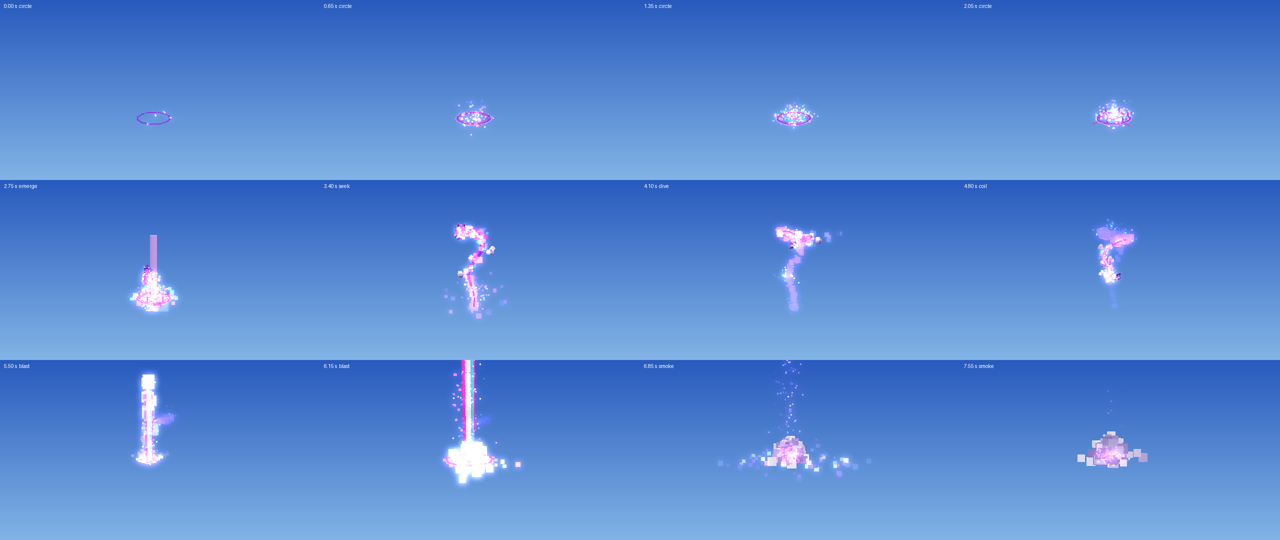
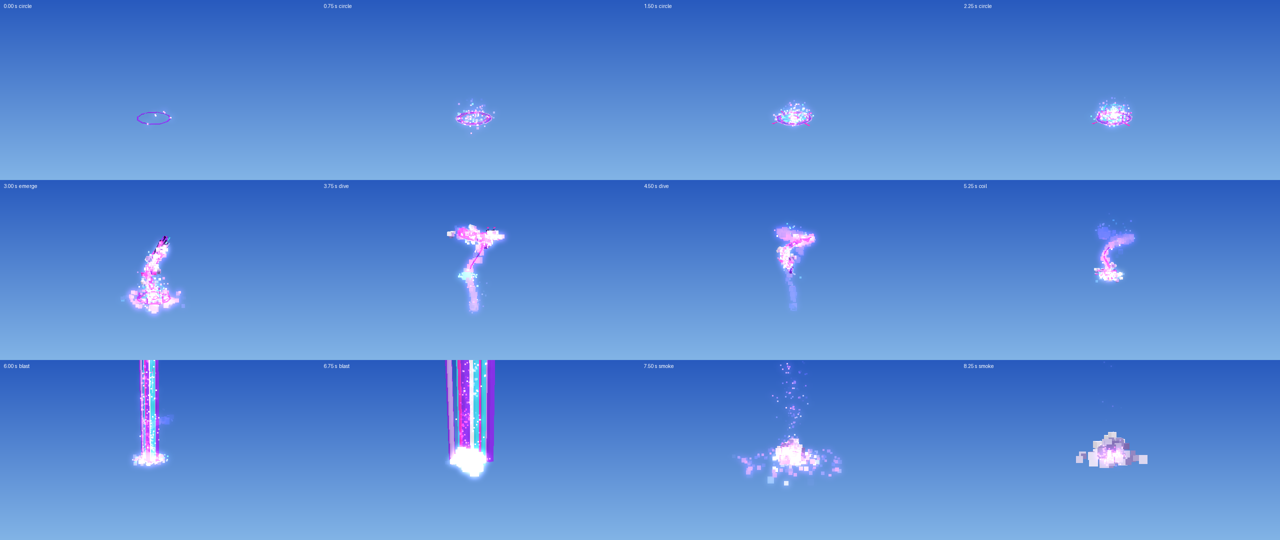
Second beam joins the fast beam, waits (hold 0.8 s), then both explode; same for the nuke

diff --git a/dragon_pulse/world_code.js b/dragon_pulse/world_code.js
@@ -10,6 +10,7 @@ var DP_CFG = {
   damage: 40,
   boom: 1,
   beam: 0.5,
+  hold: 0.8,
   radius: 10,
   knockback: 18,
   hurtCaster: false,
@@ -200,6 +201,14 @@ var DP_MESH = {
     ["M", 0.35, 1, 0.35, "magenta", 1.1, 0, 0],
     ["M", 0.35, 1, 0.35, "magenta", -1.1, 0, 0],
     ["M", 0.35, 1, 0.35, "cyan", 0, 1.1, 0, "m"],
+  ],
+
+  beam2: [
+    ["M", 0.5, 1, 0.5, "purple", 1.55, 1.55, 0, "m"],
+    ["M", 0.5, 1, 0.5, "purple", -1.55, 1.55, 0, "m"],
+    ["M", 0.28, 1, 0.28, "lilac", 2.3, 0, 0],
+    ["M", 0.28, 1, 0.28, "lilac", -2.3, 0, 0],
+    ["M", 0.28, 1, 0.28, "cyan", 0, 2.3, 0, "m"],
   ],
 
   beamTop: [
@@ -393,14 +402,19 @@ function dpAlong(c, name) {
   }
 }
 
-function dpBeam(c, base, k, tall, wide) {
-  var w = k * (wide || 1)
-  dpRows("beam").forEach((r, i) => {
-    dpPut(c, "beam_" + i, r, "", dpAt(base, DP_UP, r[5] * w, r[6] * w, tall / 2), null, k)
+function dpBars(c, name, tag, base, k, w, tall) {
+  dpRows(name).forEach((r, i) => {
+    dpPut(c, tag + i, r, "", dpAt(base, DP_UP, r[5] * w, r[6] * w, tall / 2), null, k)
     var box = dpBox(r, "", w)
     box.height = tall
-    if (c.m["beam_" + i]) api.updateMeshEntity(c.m["beam_" + i], "Box", box)
+    if (c.m[tag + i]) api.updateMeshEntity(c.m[tag + i], "Box", box)
   })
+}
+
+function dpBeam(c, base, k, tall, wide, two) {
+  var w = k * (wide || 1)
+  dpBars(c, "beam", "beam_", base, k, w, tall)
+  if (two) dpBars(c, "beam2", "beam_b", base, k, w, tall * two)
   var top = DP_MESH.beamTop
   dpPut(c, "beam_tip", top[0], "", dpAdd(base, [0, 1, 0], tall), null, k)
   dpPut(c, "beam_base", top[1], "", dpAdd(base, [0, 1, 0], 0.1), null, k)
@@ -412,6 +426,16 @@ function dpBeam(c, base, k, tall, wide) {
   if (c.t % 2 === 0) dpRingFx("shock", base, 1.6 * k * (wide || 1), 3, 0.7, 0.1, "magenta", "lilac", 6, c.t)
 }
 
+function dpHold(c, base, k, tall, h, hold, pitch) {
+  var p = h / hold
+  if (h === 0) dpSound("beam", base, pitch * 0.75)
+  if (h % 4 === 0) dpSound("pulse", base, pitch * (1 + p))
+  dpBeam(c, base, k, tall, 1 + p * 0.35 + Math.sin(h * 1.6) * 0.08, Math.min(1, (h + 1) / 4))
+  if (h % 2 === 0) dpRingFx("gather", dpAdd(base, [0, 1, 0], 0.6), 5 * k, 3, -1, 0.05, "cyan", "magenta", 6, h * 0.5)
+  dpFx("glow", dpAdd(base, [0, 1, 0], 1), 1, 0.5 * k, p > 0.6 ? "white" : "cyan")
+  if (h % 3 === 0) dpFx("gather", dpAdd(base, [0, 1, 0], tall), 6, 2 * k, "cyan", "white", [0, -1, 0])
+}
+
 function dpBurst(c, name, tag, at, k) {
   dpRows(name).forEach((r, i) => {
     var d = DP_DIAG[r[8]]
@@ -420,7 +444,7 @@ function dpBurst(c, name, tag, at, k) {
 }
 
 function dpBoom(c, base, k, tall, e, ring) {
-  dpBeam(c, base, k, tall, e < 4 ? 1 + e * 0.6 : Math.max(0.12, 2.8 - (e - 3) * 0.3))
+  dpBeam(c, base, k, tall, e < 4 ? 1 + e * 0.6 : Math.max(0.12, 2.8 - (e - 3) * 0.3), 1)
   dpShock(c, "beam_s", dpAdd(base, [0, 1, 0], 0.4), ring * (0.15 + e * 0.08), 0.5 * k, "magenta")
   dpFx("flash", base, 10, (2 + e * 0.5) * k)
   dpFx("impact", base, 8, 2 * k)
@@ -670,13 +694,15 @@ var DP_PHASE = [
     var goal = dpGoal(c)
     var b = DP_CFG.boom
     var wait = Math.max(1, Math.round(DP_CFG.beam * 20))
-    var e = c.t - wait
+    var hold = Math.max(1, Math.round(DP_CFG.hold * 20))
+    var e = c.t - wait - hold
     var base = [goal[0], goal[1] - 1, goal[2]]
     if (c.t === 0) {
       dpDrop(c, "")
       dpSound("beam", goal)
     }
-    if (e < 0) return dpBeam(c, base, b, (48 * b * (c.t + 1)) / wait)
+    if (c.t < wait) return dpBeam(c, base, b, (48 * b * (c.t + 1)) / wait)
+    if (e < 0) return dpHold(c, base, b, 48 * b, c.t - wait, hold, 1)
     if (e === 0) {
       dpSound("blast", goal)
       dpHurt(c, goal, DP_CFG.radius, DP_CFG.damage, DP_CFG.knockback)
@@ -716,7 +742,8 @@ var DP_PHASE = [
   function (c) {
     var wait = Math.max(1, Math.round(DP_CFG.beam * 24))
     var k = 3 * DP_CFG.boom
-    var e = c.t - wait
+    var hold = Math.max(1, Math.round(DP_CFG.hold * 24))
+    var e = c.t - wait - hold
     if (c.t === 0) {
       dpDrop(c, "")
       c.ground = dpAdd(c.at, [0, -1, 0], dpFree(c.at, [0, -1, 0], 60) - 1)
@@ -724,7 +751,8 @@ var DP_PHASE = [
       c.goal = c.ground
       dpSound("beam", c.ground, 0.7)
     }
-    if (e < 0) return dpBeam(c, c.ground, k, (c.tall * (c.t + 1)) / wait)
+    if (c.t < wait) return dpBeam(c, c.ground, k, (c.tall * (c.t + 1)) / wait)
+    if (e < 0) return dpHold(c, c.ground, k, c.tall, c.t - wait, hold, 0.7)
     if (e === 0) {
       dpSound("nuke", c.ground)
       dpHurt(c, c.ground, DP_CFG.nukeRadius, DP_CFG.nukeDamage, DP_CFG.nukeKnockback, true)

diff --git a/dragon_pulse/tools/render.py b/dragon_pulse/tools/render.py
@@ -127,7 +127,7 @@ strip.resize((W * 2, H * 3 // 2)).save(os.path.join(out, 'timeline.png'))
 # Six moments from close by. The last two are two dragons that met.
 tick_of = lambda frames, ph, i: [f['t'] for f in frames if f['ph'] == ph][i]
 shots = [(one, one_live, 0, -1, 9), (one, one_live, 1, 9, 14), (one, one_live, 3, -3, 26),
-         (one, one_live, 5, 13, 50), (two, two_live, 8, 16, 90), (two, two_live, 9, 16, 60)]
+         (one, one_live, 5, 22, 50), (two, two_live, 8, 34, 90), (two, two_live, 9, 16, 60)]
 sheet = Image.new('RGB', (W * 3, H * 2))
 for i, (frames, live, ph, at, back) in enumerate(shots):
     t = tick_of(frames, ph, at)

diff --git a/README.md b/README.md
@@ -133,9 +133,9 @@ The meshes sit over your own skin; they do not hide it.
 
 | File | Goes into | Characters | Limit |
 |---|---|---|---|
-| `world_code.js` | World Code | 35,361 | 512,000 |
-| `goodra.js` | World Code, below `world_code.js` | 10,215 | 512,000 together: 45,577 |
-| `skin.js` | World Code | 6,032 | 512,000, all three together: 51,610 |
+| `world_code.js` | World Code | 36,666 | 512,000 |
+| `goodra.js` | World Code, below `world_code.js` | 10,215 | 512,000 together: 46,882 |
+| `skin.js` | World Code | 6,032 | 512,000, all three together: 52,915 |
 | `code_block.js` | Code Block | 18 | 32,000 |
 | `studio/particles_only.code_block.js` | Code Block | 13,414 | 32,000 |
 
@@ -152,8 +152,9 @@ the table columns mean is written on this page instead.
 | dive | It weaves down onto the target | the same dragon, shimmer particles | 3.75–4.7 |
 | coil | It wraps round the target; two stars flash | two 4-part star meshes, sparks | 4.7–5.3 |
 | beam | The dragon turns into a beam that shoots 48 blocks straight up from the target | 10 meshes: a white core and four thin beams that grow, a ball on the tip, a disc at the foot, three collars travelling up; rising sparks | 5.35–5.85 |
-| blast | The beam is the explosion: it swells to almost three times as thick, a shock ring widens on the ground, then it thins out and is gone. The target is killed when it swells, others within 10 blocks are hurt and pushed | the same beam, a 10-piece ring, flashes, shock waves | 5.85–6.5 |
-| smoke | A little smoke round a glowing core | 12 smoke meshes, smoke and sparks | 6.5–8.3 |
+| second beam | A second beam rises around the first in a fifth of a second and waits: the two throb and slowly thicken while light is pulled in at the foot and down from the tip | 8 more meshes: four purple bars on the corners and four thin lilac and cyan bars outside the first beam; gathering glints, a glow that turns white | 5.85–6.65 |
+| blast | Both beams are the explosion: they swell to almost three times as thick, a shock ring widens on the ground, then it thins out and is gone. The target is killed when it swells, others within 10 blocks are hurt and pushed | the same beams, a 10-piece ring, flashes, shock waves | 6.65–7.3 |
+| smoke | A little smoke round a glowing core | 12 smoke meshes, smoke and sparks | 7.3–9.1 |
 
 After two dragons touch, the one that is left runs these steps instead:
 
@@ -161,7 +162,7 @@ After two dragons touch, the one that is left runs these steps instead:
 |---|---|---|---|
 | mega | The merged dragon, 2.2 times the size, spirals 22 blocks up | the same 143 meshes, bigger | 1.2 s |
 | beam | A beam three times as thick shoots from the ground up through the dragon and 40 blocks past it | the same 10 meshes, bigger | 0.6 s |
-| nuke | That beam swells to 11 blocks thick, a shock ring widens on the ground out to the kill radius, then it thins out. Everything within 34 blocks dies | the same beam, a 10-piece ring, flashes and waves | 0.65 s |
+| nuke | A second beam joins it and waits about a second, then both swell to 11 blocks thick, a shock ring widens on the ground out to the kill radius, then it thins out. Everything within 34 blocks dies | the same beam, a 10-piece ring, flashes and waves | 0.65 s |
 | cloud | Smoke where the beam stood and a ring of dust rolling out along the ground | 12 smoke meshes, 8 dust meshes, smoke | 2.5 s |
 
 How long the dive takes depends on how far the target is. The clip in
@@ -185,6 +186,7 @@ Every mesh is one row in `DP_MESH` in `world_code.js`:
 | `orb` | 4 | One cloud orb: a turning lilac core and three puffs. Used 5 times, at the places in `DP_ORBS` |
 | `flare` | 6 | The star: a core, three rays and two slanted rays |
 | `beam` | 5 | The beam before each explosion: a core and four thin beams |
+| `beam2` | 8 | The second beam that waits before the explosion: four corner bars and four thin outer bars |
 | `beamTop` | 3 | The ball on the beam's tip, the disc at its foot, and a collar that is used 3 times and travels up the beam |
 | `smoke` | 12 | White and violet-grey puffs round a glowing core |
 | `dust` | 1 | One puff of the dust ring that rolls out along the ground after the big beam, used 8 times |
@@ -307,7 +309,8 @@ list.
 | `kill` | `true`: the target dies, and so does everything the nuke reaches. `false`: they take `damage` or `nukeDamage` |
 | `damage` | Health taken at the centre of the blast from everyone but the target |
 | `boom` | Size of every beam and its smoke. 1 is as drawn here, 2 is twice as big. It does not change who is hit |
-| `beam` | Seconds the beam takes to shoot up before it swells and hurts |
+| `beam` | Seconds the first beam takes to shoot up |
+| `hold` | Seconds the second beam waits before both explode and hurt. The nuke waits a fifth longer |
 | `radius` | Blast radius in blocks |
 | `knockback` | Push away from the blast |
 | `hurtCaster` | `true`: blast and nuke also hit whoever cast the dragons |
